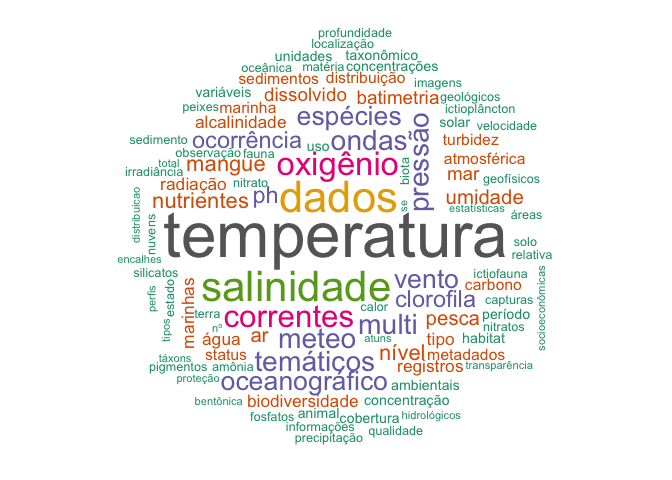
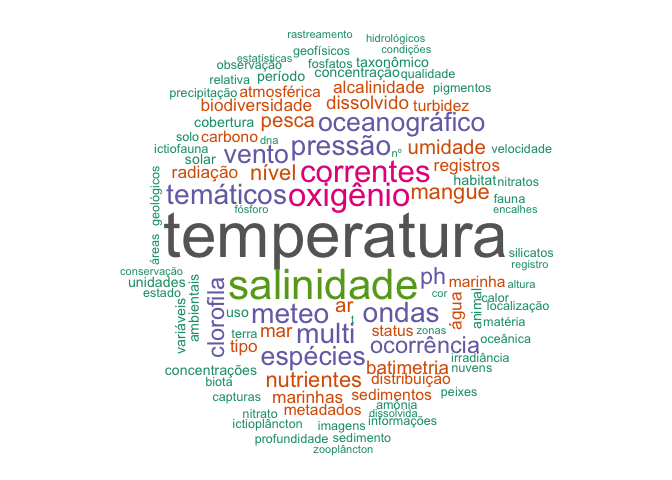
new report

Changed region(s): [[0.1562, 0.0625, 0.8438, 0.9688]]

diff --git a/Relatorio/Relatorio.md b/Relatorio/Relatorio.md
@@ -259,7 +259,7 @@ library(RColorBrewer)
 # Stop words em português + palavras irrelevantes
 
 stopwords_pt <- c(
-"de", "da", "do", "em", "para", "com", "e", "a", "o", "os", "as",
+"de", "da", "do", "em", "para", "com", "e", "a", "o", "os", "as", "dados", "dado", 
 "no", "na", "nos", "nas", "por", "um", "uma", "uns", "umas",
 "são", "etc", "co", "como"
 )
